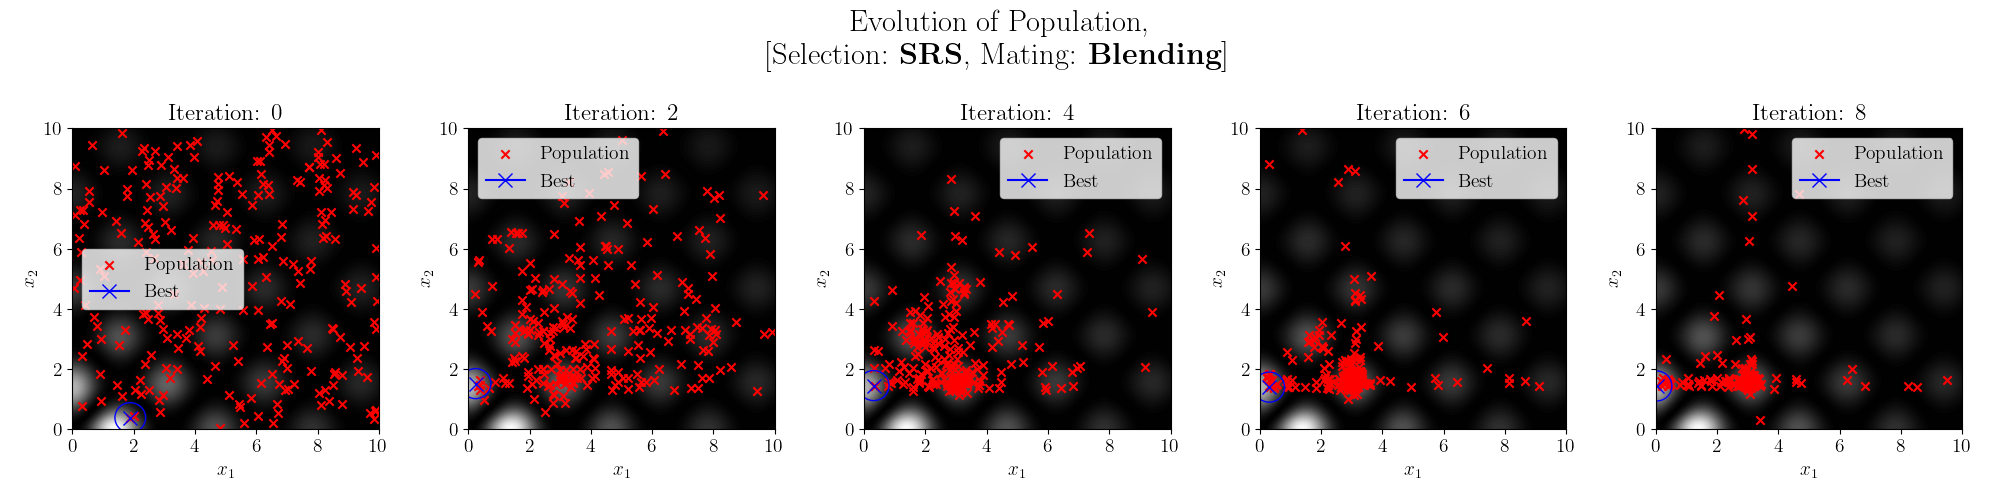
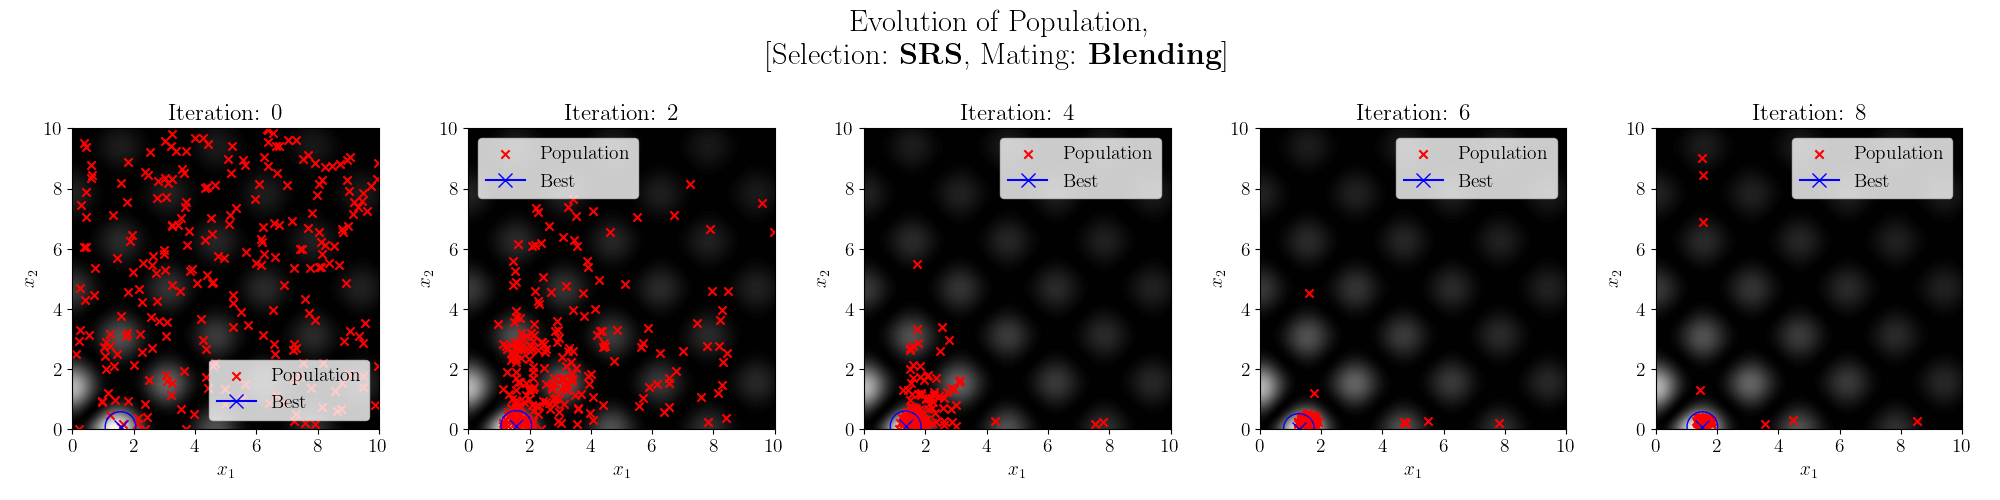
renamed main.py

diff --git a/mainGCA.py b/mainGCA.py
@@ -13,9 +13,9 @@ X_RANGE=(0,10)
 FUNCTION = KBF_function
 POPULATION_SIZE = 250
 CHROMOSOME_LENGTH = 2
-MUTATION_RATE = 0.05
+MUTATION_RATE = 0.01
 CROSSOVER_RATE = 0.8
-SELECTION_METHOD = 'SRS' # 'Proportional', 'Tournament', 'SRS'
+SELECTION_METHOD = 'Tournament' # 'Proportional', 'Tournament', 'SRS'
 MATING_PROCEDURE = 'Blending' # 'Crossover', 'Blending'
 NUM_ITERS = 10
 
